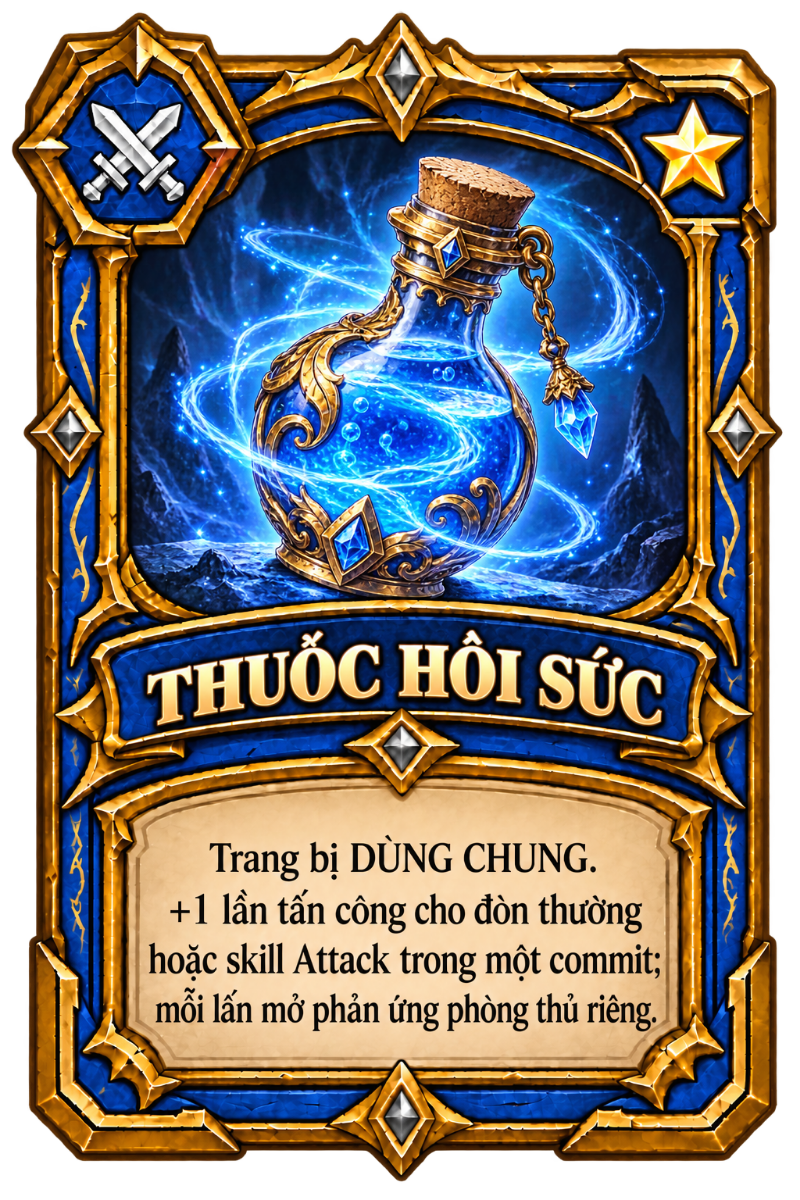
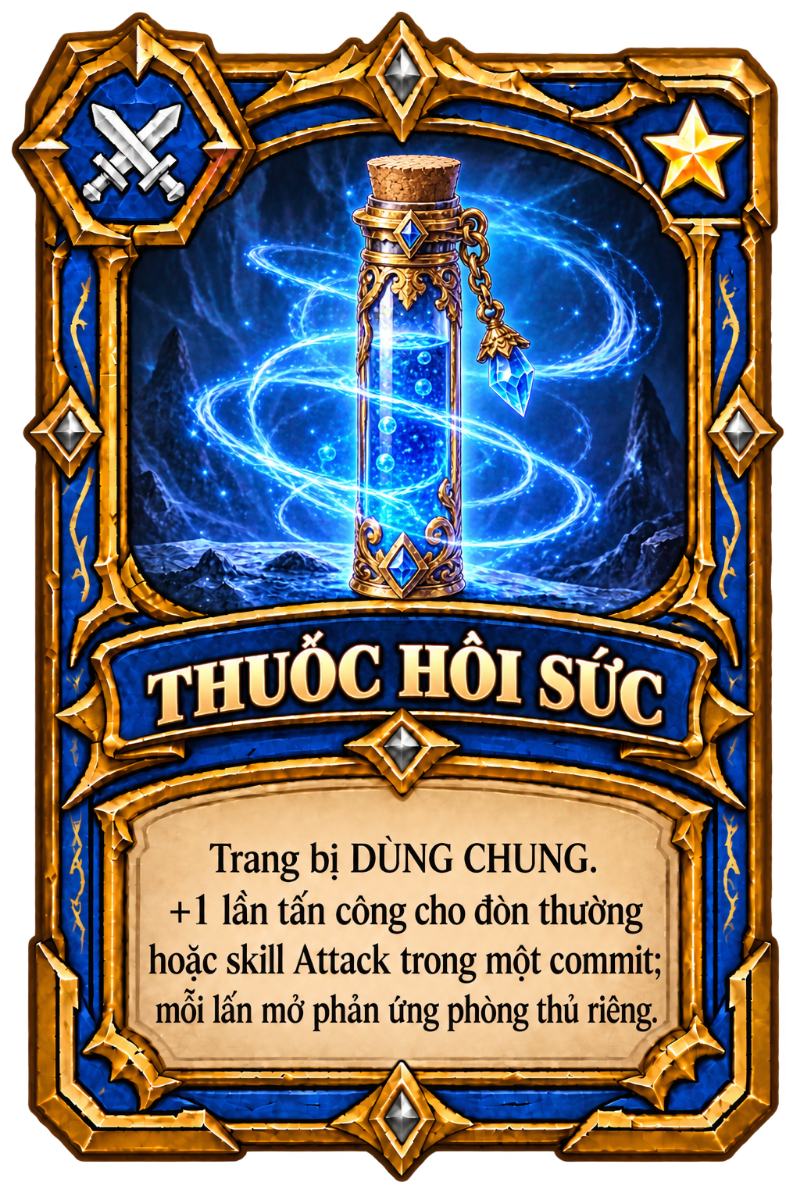
fix(assets): change Restorative Potion illustration to an upright cylindrical vial

diff --git a/assets/card-gallery/common/index.html b/assets/card-gallery/common/index.html
@@ -1,1 +1,1 @@
-<!doctype html><html lang="vi"><head><meta charset="utf-8"><meta name="viewport" content="width=device-width,initial-scale=1"><title>DozenWar — Trang bị dùng chung</title><style>body{margin:0;padding:24px;background:#111c32;color:#eef4ff;font:16px system-ui}main{max-width:1300px;margin:auto}.cards{display:grid;grid-template-columns:repeat(auto-fit,minmax(260px,1fr));gap:24px}article{background:#203452;padding:16px;border-radius:12px}.preview{display:block;margin-top:12px;background-color:#22344c;background-image:linear-gradient(45deg,#2c4059 25%,transparent 25%),linear-gradient(-45deg,#2c4059 25%,transparent 25%),linear-gradient(45deg,transparent 75%,#2c4059 75%),linear-gradient(-45deg,transparent 75%,#2c4059 75%);background-size:24px 24px;background-position:0 0,0 12px,12px -12px,-12px 0}img{width:100%;height:auto;display:block}a{color:#ffd583}h2{font-size:20px}details{margin-top:12px}summary{cursor:pointer}@media(max-width:420px){body{padding:12px}}</style></head><body><main><h1>Trang bị dùng chung — tông xanh dương</h1><p>11 mẫu · 23 lá trong deck. PNG 800 × 1200, nền trong suốt ngoài khung. Dữ liệu theo catalog DozenWar trên GitHub.</p><p><a href="catalog.json" download>Tải catalog JSON</a> · <a href="../../../">Về game</a></p><div class="cards"><article data-equipment-id="EQUIP_COMMON_ATK_003"><h2>Lọ Phép Thuật</h2><p>Công · 1 sao · 1 lá trong deck</p><a href="EQUIP_COMMON_ATK_003.png" download>Tải PNG 800 × 1200</a><a class="preview" href="EQUIP_COMMON_ATK_003.png"><img loading="lazy" src="EQUIP_COMMON_ATK_003.png" alt="Lọ Phép Thuật" width="800" height="1200"></a><details><summary>Hiệu ứng trong catalog</summary><p>Đòn thường và skill Attack trong một commit không được Guard Bộ binh; vẫn có phản ứng phòng thủ khác hợp lệ.</p></details></article><article data-equipment-id="EQUIP_COMMON_ATK_004"><h2>Thuốc Hồi Sức</h2><p>Công · 1 sao · 2 lá trong deck</p><a href="EQUIP_COMMON_ATK_004.png" download>Tải PNG 800 × 1200</a><a class="preview" href="EQUIP_COMMON_ATK_004.png"><img loading="lazy" src="EQUIP_COMMON_ATK_004.png" alt="Thuốc Hồi Sức" width="800" height="1200"></a><details><summary>Hiệu ứng trong catalog</summary><p>+1 lần tấn công cho đòn thường hoặc skill Attack trong một commit; mỗi lần mở phản ứng phòng thủ riêng.</p></details></article><article data-equipment-id="EQUIP_COMMON_DEF_001"><h2>Quyền Trượng Phép Thuật</h2><p>Thủ · 3 sao · 2 lá trong deck</p><a href="EQUIP_COMMON_DEF_001.png" download>Tải PNG 800 × 1200</a><a class="preview" href="EQUIP_COMMON_DEF_001.png"><img loading="lazy" src="EQUIP_COMMON_DEF_001.png" alt="Quyền Trượng Phép Thuật" width="800" height="1200"></a><details><summary>Hiệu ứng trong catalog</summary><p>Hủy một đòn tấn công, gồm sát thương và hiệu ứng lên đơn vị được bảo vệ; vẫn so sánh sao.</p></details></article><article data-equipment-id="EQUIP_COMMON_ATK_001"><h2>Triệu Gọi Ám Kỵ</h2><p>Công · 1 sao · 2 lá trong deck</p><a href="EQUIP_COMMON_ATK_001.png" download>Tải PNG 800 × 1200</a><a class="preview" href="EQUIP_COMMON_ATK_001.png"><img loading="lazy" src="EQUIP_COMMON_ATK_001.png" alt="Triệu Gọi Ám Kỵ" width="800" height="1200"></a><details><summary>Hiệu ứng trong catalog</summary><p>Tạo 1 lính Kỵ binh mới ở hex hợp lệ cạnh Hero còn sống. Lính được đi và đánh ngay; không mất HP, không commit Hero.</p></details></article><article data-equipment-id="EQUIP_COMMON_ATK_002"><h2>Kèn Gọi Quân</h2><p>Công · 1 sao · 2 lá trong deck</p><a href="EQUIP_COMMON_ATK_002.png" download>Tải PNG 800 × 1200</a><a class="preview" href="EQUIP_COMMON_ATK_002.png"><img loading="lazy" src="EQUIP_COMMON_ATK_002.png" alt="Kèn Gọi Quân" width="800" height="1200"></a><details><summary>Hiệu ứng trong catalog</summary><p>Tạo 1 lính Cung thủ mới ở hex hợp lệ cạnh Hero còn sống. Lính được đi và đánh ngay; không cần lính chết.</p></details></article><article data-equipment-id="EQUIP_COMMON_BOTH_001"><h2>Bình Máu</h2><p>Công và thủ · 4 sao · 4 lá trong deck</p><a href="EQUIP_COMMON_BOTH_001.png?v=original-stars-restored" download>Tải PNG 800 × 1200</a><a class="preview" href="EQUIP_COMMON_BOTH_001.png?v=original-stars-restored"><img loading="lazy" src="EQUIP_COMMON_BOTH_001.png?v=original-stars-restored" alt="Bình Máu" width="800" height="1200"></a><details><summary>Hiệu ứng trong catalog</summary><p>Hồi 1 HP cho Bộ binh hoặc Hero đồng đội còn sống, thiếu HP ở bất kỳ đâu. Khi đang nhận đòn phải hồi đủ để sống.</p></details></article><article data-equipment-id="EQUIP_COMMON_ATK_005"><h2>Thuốc Tăng Lực</h2><p>Công · 1 sao · 2 lá trong deck</p><a href="EQUIP_COMMON_ATK_005.png" download>Tải PNG 800 × 1200</a><a class="preview" href="EQUIP_COMMON_ATK_005.png"><img loading="lazy" src="EQUIP_COMMON_ATK_005.png" alt="Thuốc Tăng Lực" width="800" height="1200"></a><details><summary>Hiệu ứng trong catalog</summary><p>Cho 1 đồng đội chưa Attack thêm số ô bằng di chuyển cơ bản, kể cả đã di chuyển. Hết lượt công thì hết buff.</p></details></article><article data-equipment-id="EQUIP_COMMON_BOTH_002"><h2>Dây Chuyền May Mắn</h2><p>Công và thủ · 5 sao · 2 lá trong deck</p><a href="EQUIP_COMMON_BOTH_002.png" download>Tải PNG 800 × 1200</a><a class="preview" href="EQUIP_COMMON_BOTH_002.png"><img loading="lazy" src="EQUIP_COMMON_BOTH_002.png" alt="Dây Chuyền May Mắn" width="800" height="1200"></a><details><summary>Hiệu ứng trong catalog</summary><p>Hủy toàn bộ hiệu ứng của 1 card địch vừa dùng trước khi xử lý. Card bị hủy vẫn rời tay và tiêu hao ngân sách.</p></details></article><article data-equipment-id="EQUIP_COMMON_BOTH_003"><h2>Đánh Cắp</h2><p>Công và thủ · 4 sao · 2 lá trong deck</p><a href="EQUIP_COMMON_BOTH_003.png" download>Tải PNG 800 × 1200</a><a class="preview" href="EQUIP_COMMON_BOTH_003.png"><img loading="lazy" src="EQUIP_COMMON_BOTH_003.png" alt="Đánh Cắp" width="800" height="1200"></a><details><summary>Hiệu ứng trong catalog</summary><p>Xem tay địch và chọn lấy 1 card chưa dùng. Được dùng ngay nếu còn ngân sách.</p></details></article><article data-equipment-id="EQUIP_COMMON_BOTH_004"><h2>Nhẫn Dịch Chuyển</h2><p>Công và thủ · 3 sao · 2 lá trong deck</p><a href="EQUIP_COMMON_BOTH_004.png" download>Tải PNG 800 × 1200</a><a class="preview" href="EQUIP_COMMON_BOTH_004.png"><img loading="lazy" src="EQUIP_COMMON_BOTH_004.png" alt="Nhẫn Dịch Chuyển" width="800" height="1200"></a><details><summary>Hiệu ứng trong catalog</summary><p>Chỉ Hero đồng đội còn sống; lượt công phải chưa Attack. Dịch chuyển đến hex hợp lệ khác trong tối đa 4 ô, bỏ qua quân/vật cản và không tiêu hao di chuyển thường. Lượt thủ: chỉ khi Hero đang bị đánh, đủ 3 sao để hủy sát thương và hiệu ứng đòn.</p></details></article><article data-equipment-id="EQUIP_COMMON_ATK_006"><h2>Thích Khách</h2><p>Công · 4 sao · 2 lá trong deck</p><a href="EQUIP_COMMON_ATK_006.png" download>Tải PNG 800 × 1200</a><a class="preview" href="EQUIP_COMMON_ATK_006.png"><img loading="lazy" src="EQUIP_COMMON_ATK_006.png" alt="Thích Khách" width="800" height="1200"></a><details><summary>Hiệu ứng trong catalog</summary><p>Gây 1 sát thương cho 1 Hero địch trên toàn bản đồ. Bộ binh có thể đỡ đòn. Không tiêu hao quyền Attack.</p></details></article></div></main></body></html>
+<!doctype html><html lang="vi"><head><meta charset="utf-8"><meta name="viewport" content="width=device-width,initial-scale=1"><title>DozenWar — Trang bị dùng chung</title><style>body{margin:0;padding:24px;background:#111c32;color:#eef4ff;font:16px system-ui}main{max-width:1300px;margin:auto}.cards{display:grid;grid-template-columns:repeat(auto-fit,minmax(260px,1fr));gap:24px}article{background:#203452;padding:16px;border-radius:12px}.preview{display:block;margin-top:12px;background-color:#22344c;background-image:linear-gradient(45deg,#2c4059 25%,transparent 25%),linear-gradient(-45deg,#2c4059 25%,transparent 25%),linear-gradient(45deg,transparent 75%,#2c4059 75%),linear-gradient(-45deg,transparent 75%,#2c4059 75%);background-size:24px 24px;background-position:0 0,0 12px,12px -12px,-12px 0}img{width:100%;height:auto;display:block}a{color:#ffd583}h2{font-size:20px}details{margin-top:12px}summary{cursor:pointer}@media(max-width:420px){body{padding:12px}}</style></head><body><main><h1>Trang bị dùng chung — tông xanh dương</h1><p>11 mẫu · 23 lá trong deck. PNG 800 × 1200, nền trong suốt ngoài khung. Dữ liệu theo catalog DozenWar trên GitHub.</p><p><a href="catalog.json" download>Tải catalog JSON</a> · <a href="../../../">Về game</a></p><div class="cards"><article data-equipment-id="EQUIP_COMMON_ATK_003"><h2>Lọ Phép Thuật</h2><p>Công · 1 sao · 1 lá trong deck</p><a href="EQUIP_COMMON_ATK_003.png" download>Tải PNG 800 × 1200</a><a class="preview" href="EQUIP_COMMON_ATK_003.png"><img loading="lazy" src="EQUIP_COMMON_ATK_003.png" alt="Lọ Phép Thuật" width="800" height="1200"></a><details><summary>Hiệu ứng trong catalog</summary><p>Đòn thường và skill Attack trong một commit không được Guard Bộ binh; vẫn có phản ứng phòng thủ khác hợp lệ.</p></details></article><article data-equipment-id="EQUIP_COMMON_ATK_004"><h2>Thuốc Hồi Sức</h2><p>Công · 1 sao · 2 lá trong deck</p><a href="EQUIP_COMMON_ATK_004.png?v=vertical-cylinder-1" download>Tải PNG 800 × 1200</a><a class="preview" href="EQUIP_COMMON_ATK_004.png?v=vertical-cylinder-1"><img loading="lazy" src="EQUIP_COMMON_ATK_004.png?v=vertical-cylinder-1" alt="Thuốc Hồi Sức" width="800" height="1200"></a><details><summary>Hiệu ứng trong catalog</summary><p>+1 lần tấn công cho đòn thường hoặc skill Attack trong một commit; mỗi lần mở phản ứng phòng thủ riêng.</p></details></article><article data-equipment-id="EQUIP_COMMON_DEF_001"><h2>Quyền Trượng Phép Thuật</h2><p>Thủ · 3 sao · 2 lá trong deck</p><a href="EQUIP_COMMON_DEF_001.png" download>Tải PNG 800 × 1200</a><a class="preview" href="EQUIP_COMMON_DEF_001.png"><img loading="lazy" src="EQUIP_COMMON_DEF_001.png" alt="Quyền Trượng Phép Thuật" width="800" height="1200"></a><details><summary>Hiệu ứng trong catalog</summary><p>Hủy một đòn tấn công, gồm sát thương và hiệu ứng lên đơn vị được bảo vệ; vẫn so sánh sao.</p></details></article><article data-equipment-id="EQUIP_COMMON_ATK_001"><h2>Triệu Gọi Ám Kỵ</h2><p>Công · 1 sao · 2 lá trong deck</p><a href="EQUIP_COMMON_ATK_001.png" download>Tải PNG 800 × 1200</a><a class="preview" href="EQUIP_COMMON_ATK_001.png"><img loading="lazy" src="EQUIP_COMMON_ATK_001.png" alt="Triệu Gọi Ám Kỵ" width="800" height="1200"></a><details><summary>Hiệu ứng trong catalog</summary><p>Tạo 1 lính Kỵ binh mới ở hex hợp lệ cạnh Hero còn sống. Lính được đi và đánh ngay; không mất HP, không commit Hero.</p></details></article><article data-equipment-id="EQUIP_COMMON_ATK_002"><h2>Kèn Gọi Quân</h2><p>Công · 1 sao · 2 lá trong deck</p><a href="EQUIP_COMMON_ATK_002.png" download>Tải PNG 800 × 1200</a><a class="preview" href="EQUIP_COMMON_ATK_002.png"><img loading="lazy" src="EQUIP_COMMON_ATK_002.png" alt="Kèn Gọi Quân" width="800" height="1200"></a><details><summary>Hiệu ứng trong catalog</summary><p>Tạo 1 lính Cung thủ mới ở hex hợp lệ cạnh Hero còn sống. Lính được đi và đánh ngay; không cần lính chết.</p></details></article><article data-equipment-id="EQUIP_COMMON_BOTH_001"><h2>Bình Máu</h2><p>Công và thủ · 4 sao · 4 lá trong deck</p><a href="EQUIP_COMMON_BOTH_001.png?v=original-stars-restored" download>Tải PNG 800 × 1200</a><a class="preview" href="EQUIP_COMMON_BOTH_001.png?v=original-stars-restored"><img loading="lazy" src="EQUIP_COMMON_BOTH_001.png?v=original-stars-restored" alt="Bình Máu" width="800" height="1200"></a><details><summary>Hiệu ứng trong catalog</summary><p>Hồi 1 HP cho Bộ binh hoặc Hero đồng đội còn sống, thiếu HP ở bất kỳ đâu. Khi đang nhận đòn phải hồi đủ để sống.</p></details></article><article data-equipment-id="EQUIP_COMMON_ATK_005"><h2>Thuốc Tăng Lực</h2><p>Công · 1 sao · 2 lá trong deck</p><a href="EQUIP_COMMON_ATK_005.png" download>Tải PNG 800 × 1200</a><a class="preview" href="EQUIP_COMMON_ATK_005.png"><img loading="lazy" src="EQUIP_COMMON_ATK_005.png" alt="Thuốc Tăng Lực" width="800" height="1200"></a><details><summary>Hiệu ứng trong catalog</summary><p>Cho 1 đồng đội chưa Attack thêm số ô bằng di chuyển cơ bản, kể cả đã di chuyển. Hết lượt công thì hết buff.</p></details></article><article data-equipment-id="EQUIP_COMMON_BOTH_002"><h2>Dây Chuyền May Mắn</h2><p>Công và thủ · 5 sao · 2 lá trong deck</p><a href="EQUIP_COMMON_BOTH_002.png" download>Tải PNG 800 × 1200</a><a class="preview" href="EQUIP_COMMON_BOTH_002.png"><img loading="lazy" src="EQUIP_COMMON_BOTH_002.png" alt="Dây Chuyền May Mắn" width="800" height="1200"></a><details><summary>Hiệu ứng trong catalog</summary><p>Hủy toàn bộ hiệu ứng của 1 card địch vừa dùng trước khi xử lý. Card bị hủy vẫn rời tay và tiêu hao ngân sách.</p></details></article><article data-equipment-id="EQUIP_COMMON_BOTH_003"><h2>Đánh Cắp</h2><p>Công và thủ · 4 sao · 2 lá trong deck</p><a href="EQUIP_COMMON_BOTH_003.png" download>Tải PNG 800 × 1200</a><a class="preview" href="EQUIP_COMMON_BOTH_003.png"><img loading="lazy" src="EQUIP_COMMON_BOTH_003.png" alt="Đánh Cắp" width="800" height="1200"></a><details><summary>Hiệu ứng trong catalog</summary><p>Xem tay địch và chọn lấy 1 card chưa dùng. Được dùng ngay nếu còn ngân sách.</p></details></article><article data-equipment-id="EQUIP_COMMON_BOTH_004"><h2>Nhẫn Dịch Chuyển</h2><p>Công và thủ · 3 sao · 2 lá trong deck</p><a href="EQUIP_COMMON_BOTH_004.png" download>Tải PNG 800 × 1200</a><a class="preview" href="EQUIP_COMMON_BOTH_004.png"><img loading="lazy" src="EQUIP_COMMON_BOTH_004.png" alt="Nhẫn Dịch Chuyển" width="800" height="1200"></a><details><summary>Hiệu ứng trong catalog</summary><p>Chỉ Hero đồng đội còn sống; lượt công phải chưa Attack. Dịch chuyển đến hex hợp lệ khác trong tối đa 4 ô, bỏ qua quân/vật cản và không tiêu hao di chuyển thường. Lượt thủ: chỉ khi Hero đang bị đánh, đủ 3 sao để hủy sát thương và hiệu ứng đòn.</p></details></article><article data-equipment-id="EQUIP_COMMON_ATK_006"><h2>Thích Khách</h2><p>Công · 4 sao · 2 lá trong deck</p><a href="EQUIP_COMMON_ATK_006.png" download>Tải PNG 800 × 1200</a><a class="preview" href="EQUIP_COMMON_ATK_006.png"><img loading="lazy" src="EQUIP_COMMON_ATK_006.png" alt="Thích Khách" width="800" height="1200"></a><details><summary>Hiệu ứng trong catalog</summary><p>Gây 1 sát thương cho 1 Hero địch trên toàn bản đồ. Bộ binh có thể đỡ đòn. Không tiêu hao quyền Attack.</p></details></article></div></main></body></html>

diff --git a/dist/assets/card-gallery/common/index.html b/dist/assets/card-gallery/common/index.html
@@ -1,1 +1,1 @@
-<!doctype html><html lang="vi"><head><meta charset="utf-8"><meta name="viewport" content="width=device-width,initial-scale=1"><title>DozenWar — Trang bị dùng chung</title><style>body{margin:0;padding:24px;background:#111c32;color:#eef4ff;font:16px system-ui}main{max-width:1300px;margin:auto}.cards{display:grid;grid-template-columns:repeat(auto-fit,minmax(260px,1fr));gap:24px}article{background:#203452;padding:16px;border-radius:12px}.preview{display:block;margin-top:12px;background-color:#22344c;background-image:linear-gradient(45deg,#2c4059 25%,transparent 25%),linear-gradient(-45deg,#2c4059 25%,transparent 25%),linear-gradient(45deg,transparent 75%,#2c4059 75%),linear-gradient(-45deg,transparent 75%,#2c4059 75%);background-size:24px 24px;background-position:0 0,0 12px,12px -12px,-12px 0}img{width:100%;height:auto;display:block}a{color:#ffd583}h2{font-size:20px}details{margin-top:12px}summary{cursor:pointer}@media(max-width:420px){body{padding:12px}}</style></head><body><main><h1>Trang bị dùng chung — tông xanh dương</h1><p>11 mẫu · 23 lá trong deck. PNG 800 × 1200, nền trong suốt ngoài khung. Dữ liệu theo catalog DozenWar trên GitHub.</p><p><a href="catalog.json" download>Tải catalog JSON</a> · <a href="../../../">Về game</a></p><div class="cards"><article data-equipment-id="EQUIP_COMMON_ATK_003"><h2>Lọ Phép Thuật</h2><p>Công · 1 sao · 1 lá trong deck</p><a href="EQUIP_COMMON_ATK_003.png" download>Tải PNG 800 × 1200</a><a class="preview" href="EQUIP_COMMON_ATK_003.png"><img loading="lazy" src="EQUIP_COMMON_ATK_003.png" alt="Lọ Phép Thuật" width="800" height="1200"></a><details><summary>Hiệu ứng trong catalog</summary><p>Đòn thường và skill Attack trong một commit không được Guard Bộ binh; vẫn có phản ứng phòng thủ khác hợp lệ.</p></details></article><article data-equipment-id="EQUIP_COMMON_ATK_004"><h2>Thuốc Hồi Sức</h2><p>Công · 1 sao · 2 lá trong deck</p><a href="EQUIP_COMMON_ATK_004.png" download>Tải PNG 800 × 1200</a><a class="preview" href="EQUIP_COMMON_ATK_004.png"><img loading="lazy" src="EQUIP_COMMON_ATK_004.png" alt="Thuốc Hồi Sức" width="800" height="1200"></a><details><summary>Hiệu ứng trong catalog</summary><p>+1 lần tấn công cho đòn thường hoặc skill Attack trong một commit; mỗi lần mở phản ứng phòng thủ riêng.</p></details></article><article data-equipment-id="EQUIP_COMMON_DEF_001"><h2>Quyền Trượng Phép Thuật</h2><p>Thủ · 3 sao · 2 lá trong deck</p><a href="EQUIP_COMMON_DEF_001.png" download>Tải PNG 800 × 1200</a><a class="preview" href="EQUIP_COMMON_DEF_001.png"><img loading="lazy" src="EQUIP_COMMON_DEF_001.png" alt="Quyền Trượng Phép Thuật" width="800" height="1200"></a><details><summary>Hiệu ứng trong catalog</summary><p>Hủy một đòn tấn công, gồm sát thương và hiệu ứng lên đơn vị được bảo vệ; vẫn so sánh sao.</p></details></article><article data-equipment-id="EQUIP_COMMON_ATK_001"><h2>Triệu Gọi Ám Kỵ</h2><p>Công · 1 sao · 2 lá trong deck</p><a href="EQUIP_COMMON_ATK_001.png" download>Tải PNG 800 × 1200</a><a class="preview" href="EQUIP_COMMON_ATK_001.png"><img loading="lazy" src="EQUIP_COMMON_ATK_001.png" alt="Triệu Gọi Ám Kỵ" width="800" height="1200"></a><details><summary>Hiệu ứng trong catalog</summary><p>Tạo 1 lính Kỵ binh mới ở hex hợp lệ cạnh Hero còn sống. Lính được đi và đánh ngay; không mất HP, không commit Hero.</p></details></article><article data-equipment-id="EQUIP_COMMON_ATK_002"><h2>Kèn Gọi Quân</h2><p>Công · 1 sao · 2 lá trong deck</p><a href="EQUIP_COMMON_ATK_002.png" download>Tải PNG 800 × 1200</a><a class="preview" href="EQUIP_COMMON_ATK_002.png"><img loading="lazy" src="EQUIP_COMMON_ATK_002.png" alt="Kèn Gọi Quân" width="800" height="1200"></a><details><summary>Hiệu ứng trong catalog</summary><p>Tạo 1 lính Cung thủ mới ở hex hợp lệ cạnh Hero còn sống. Lính được đi và đánh ngay; không cần lính chết.</p></details></article><article data-equipment-id="EQUIP_COMMON_BOTH_001"><h2>Bình Máu</h2><p>Công và thủ · 4 sao · 4 lá trong deck</p><a href="EQUIP_COMMON_BOTH_001.png?v=original-stars-restored" download>Tải PNG 800 × 1200</a><a class="preview" href="EQUIP_COMMON_BOTH_001.png?v=original-stars-restored"><img loading="lazy" src="EQUIP_COMMON_BOTH_001.png?v=original-stars-restored" alt="Bình Máu" width="800" height="1200"></a><details><summary>Hiệu ứng trong catalog</summary><p>Hồi 1 HP cho Bộ binh hoặc Hero đồng đội còn sống, thiếu HP ở bất kỳ đâu. Khi đang nhận đòn phải hồi đủ để sống.</p></details></article><article data-equipment-id="EQUIP_COMMON_ATK_005"><h2>Thuốc Tăng Lực</h2><p>Công · 1 sao · 2 lá trong deck</p><a href="EQUIP_COMMON_ATK_005.png" download>Tải PNG 800 × 1200</a><a class="preview" href="EQUIP_COMMON_ATK_005.png"><img loading="lazy" src="EQUIP_COMMON_ATK_005.png" alt="Thuốc Tăng Lực" width="800" height="1200"></a><details><summary>Hiệu ứng trong catalog</summary><p>Cho 1 đồng đội chưa Attack thêm số ô bằng di chuyển cơ bản, kể cả đã di chuyển. Hết lượt công thì hết buff.</p></details></article><article data-equipment-id="EQUIP_COMMON_BOTH_002"><h2>Dây Chuyền May Mắn</h2><p>Công và thủ · 5 sao · 2 lá trong deck</p><a href="EQUIP_COMMON_BOTH_002.png" download>Tải PNG 800 × 1200</a><a class="preview" href="EQUIP_COMMON_BOTH_002.png"><img loading="lazy" src="EQUIP_COMMON_BOTH_002.png" alt="Dây Chuyền May Mắn" width="800" height="1200"></a><details><summary>Hiệu ứng trong catalog</summary><p>Hủy toàn bộ hiệu ứng của 1 card địch vừa dùng trước khi xử lý. Card bị hủy vẫn rời tay và tiêu hao ngân sách.</p></details></article><article data-equipment-id="EQUIP_COMMON_BOTH_003"><h2>Đánh Cắp</h2><p>Công và thủ · 4 sao · 2 lá trong deck</p><a href="EQUIP_COMMON_BOTH_003.png" download>Tải PNG 800 × 1200</a><a class="preview" href="EQUIP_COMMON_BOTH_003.png"><img loading="lazy" src="EQUIP_COMMON_BOTH_003.png" alt="Đánh Cắp" width="800" height="1200"></a><details><summary>Hiệu ứng trong catalog</summary><p>Xem tay địch và chọn lấy 1 card chưa dùng. Được dùng ngay nếu còn ngân sách.</p></details></article><article data-equipment-id="EQUIP_COMMON_BOTH_004"><h2>Nhẫn Dịch Chuyển</h2><p>Công và thủ · 3 sao · 2 lá trong deck</p><a href="EQUIP_COMMON_BOTH_004.png" download>Tải PNG 800 × 1200</a><a class="preview" href="EQUIP_COMMON_BOTH_004.png"><img loading="lazy" src="EQUIP_COMMON_BOTH_004.png" alt="Nhẫn Dịch Chuyển" width="800" height="1200"></a><details><summary>Hiệu ứng trong catalog</summary><p>Chỉ Hero đồng đội còn sống; lượt công phải chưa Attack. Dịch chuyển đến hex hợp lệ khác trong tối đa 4 ô, bỏ qua quân/vật cản và không tiêu hao di chuyển thường. Lượt thủ: chỉ khi Hero đang bị đánh, đủ 3 sao để hủy sát thương và hiệu ứng đòn.</p></details></article><article data-equipment-id="EQUIP_COMMON_ATK_006"><h2>Thích Khách</h2><p>Công · 4 sao · 2 lá trong deck</p><a href="EQUIP_COMMON_ATK_006.png" download>Tải PNG 800 × 1200</a><a class="preview" href="EQUIP_COMMON_ATK_006.png"><img loading="lazy" src="EQUIP_COMMON_ATK_006.png" alt="Thích Khách" width="800" height="1200"></a><details><summary>Hiệu ứng trong catalog</summary><p>Gây 1 sát thương cho 1 Hero địch trên toàn bản đồ. Bộ binh có thể đỡ đòn. Không tiêu hao quyền Attack.</p></details></article></div></main></body></html>
+<!doctype html><html lang="vi"><head><meta charset="utf-8"><meta name="viewport" content="width=device-width,initial-scale=1"><title>DozenWar — Trang bị dùng chung</title><style>body{margin:0;padding:24px;background:#111c32;color:#eef4ff;font:16px system-ui}main{max-width:1300px;margin:auto}.cards{display:grid;grid-template-columns:repeat(auto-fit,minmax(260px,1fr));gap:24px}article{background:#203452;padding:16px;border-radius:12px}.preview{display:block;margin-top:12px;background-color:#22344c;background-image:linear-gradient(45deg,#2c4059 25%,transparent 25%),linear-gradient(-45deg,#2c4059 25%,transparent 25%),linear-gradient(45deg,transparent 75%,#2c4059 75%),linear-gradient(-45deg,transparent 75%,#2c4059 75%);background-size:24px 24px;background-position:0 0,0 12px,12px -12px,-12px 0}img{width:100%;height:auto;display:block}a{color:#ffd583}h2{font-size:20px}details{margin-top:12px}summary{cursor:pointer}@media(max-width:420px){body{padding:12px}}</style></head><body><main><h1>Trang bị dùng chung — tông xanh dương</h1><p>11 mẫu · 23 lá trong deck. PNG 800 × 1200, nền trong suốt ngoài khung. Dữ liệu theo catalog DozenWar trên GitHub.</p><p><a href="catalog.json" download>Tải catalog JSON</a> · <a href="../../../">Về game</a></p><div class="cards"><article data-equipment-id="EQUIP_COMMON_ATK_003"><h2>Lọ Phép Thuật</h2><p>Công · 1 sao · 1 lá trong deck</p><a href="EQUIP_COMMON_ATK_003.png" download>Tải PNG 800 × 1200</a><a class="preview" href="EQUIP_COMMON_ATK_003.png"><img loading="lazy" src="EQUIP_COMMON_ATK_003.png" alt="Lọ Phép Thuật" width="800" height="1200"></a><details><summary>Hiệu ứng trong catalog</summary><p>Đòn thường và skill Attack trong một commit không được Guard Bộ binh; vẫn có phản ứng phòng thủ khác hợp lệ.</p></details></article><article data-equipment-id="EQUIP_COMMON_ATK_004"><h2>Thuốc Hồi Sức</h2><p>Công · 1 sao · 2 lá trong deck</p><a href="EQUIP_COMMON_ATK_004.png?v=vertical-cylinder-1" download>Tải PNG 800 × 1200</a><a class="preview" href="EQUIP_COMMON_ATK_004.png?v=vertical-cylinder-1"><img loading="lazy" src="EQUIP_COMMON_ATK_004.png?v=vertical-cylinder-1" alt="Thuốc Hồi Sức" width="800" height="1200"></a><details><summary>Hiệu ứng trong catalog</summary><p>+1 lần tấn công cho đòn thường hoặc skill Attack trong một commit; mỗi lần mở phản ứng phòng thủ riêng.</p></details></article><article data-equipment-id="EQUIP_COMMON_DEF_001"><h2>Quyền Trượng Phép Thuật</h2><p>Thủ · 3 sao · 2 lá trong deck</p><a href="EQUIP_COMMON_DEF_001.png" download>Tải PNG 800 × 1200</a><a class="preview" href="EQUIP_COMMON_DEF_001.png"><img loading="lazy" src="EQUIP_COMMON_DEF_001.png" alt="Quyền Trượng Phép Thuật" width="800" height="1200"></a><details><summary>Hiệu ứng trong catalog</summary><p>Hủy một đòn tấn công, gồm sát thương và hiệu ứng lên đơn vị được bảo vệ; vẫn so sánh sao.</p></details></article><article data-equipment-id="EQUIP_COMMON_ATK_001"><h2>Triệu Gọi Ám Kỵ</h2><p>Công · 1 sao · 2 lá trong deck</p><a href="EQUIP_COMMON_ATK_001.png" download>Tải PNG 800 × 1200</a><a class="preview" href="EQUIP_COMMON_ATK_001.png"><img loading="lazy" src="EQUIP_COMMON_ATK_001.png" alt="Triệu Gọi Ám Kỵ" width="800" height="1200"></a><details><summary>Hiệu ứng trong catalog</summary><p>Tạo 1 lính Kỵ binh mới ở hex hợp lệ cạnh Hero còn sống. Lính được đi và đánh ngay; không mất HP, không commit Hero.</p></details></article><article data-equipment-id="EQUIP_COMMON_ATK_002"><h2>Kèn Gọi Quân</h2><p>Công · 1 sao · 2 lá trong deck</p><a href="EQUIP_COMMON_ATK_002.png" download>Tải PNG 800 × 1200</a><a class="preview" href="EQUIP_COMMON_ATK_002.png"><img loading="lazy" src="EQUIP_COMMON_ATK_002.png" alt="Kèn Gọi Quân" width="800" height="1200"></a><details><summary>Hiệu ứng trong catalog</summary><p>Tạo 1 lính Cung thủ mới ở hex hợp lệ cạnh Hero còn sống. Lính được đi và đánh ngay; không cần lính chết.</p></details></article><article data-equipment-id="EQUIP_COMMON_BOTH_001"><h2>Bình Máu</h2><p>Công và thủ · 4 sao · 4 lá trong deck</p><a href="EQUIP_COMMON_BOTH_001.png?v=original-stars-restored" download>Tải PNG 800 × 1200</a><a class="preview" href="EQUIP_COMMON_BOTH_001.png?v=original-stars-restored"><img loading="lazy" src="EQUIP_COMMON_BOTH_001.png?v=original-stars-restored" alt="Bình Máu" width="800" height="1200"></a><details><summary>Hiệu ứng trong catalog</summary><p>Hồi 1 HP cho Bộ binh hoặc Hero đồng đội còn sống, thiếu HP ở bất kỳ đâu. Khi đang nhận đòn phải hồi đủ để sống.</p></details></article><article data-equipment-id="EQUIP_COMMON_ATK_005"><h2>Thuốc Tăng Lực</h2><p>Công · 1 sao · 2 lá trong deck</p><a href="EQUIP_COMMON_ATK_005.png" download>Tải PNG 800 × 1200</a><a class="preview" href="EQUIP_COMMON_ATK_005.png"><img loading="lazy" src="EQUIP_COMMON_ATK_005.png" alt="Thuốc Tăng Lực" width="800" height="1200"></a><details><summary>Hiệu ứng trong catalog</summary><p>Cho 1 đồng đội chưa Attack thêm số ô bằng di chuyển cơ bản, kể cả đã di chuyển. Hết lượt công thì hết buff.</p></details></article><article data-equipment-id="EQUIP_COMMON_BOTH_002"><h2>Dây Chuyền May Mắn</h2><p>Công và thủ · 5 sao · 2 lá trong deck</p><a href="EQUIP_COMMON_BOTH_002.png" download>Tải PNG 800 × 1200</a><a class="preview" href="EQUIP_COMMON_BOTH_002.png"><img loading="lazy" src="EQUIP_COMMON_BOTH_002.png" alt="Dây Chuyền May Mắn" width="800" height="1200"></a><details><summary>Hiệu ứng trong catalog</summary><p>Hủy toàn bộ hiệu ứng của 1 card địch vừa dùng trước khi xử lý. Card bị hủy vẫn rời tay và tiêu hao ngân sách.</p></details></article><article data-equipment-id="EQUIP_COMMON_BOTH_003"><h2>Đánh Cắp</h2><p>Công và thủ · 4 sao · 2 lá trong deck</p><a href="EQUIP_COMMON_BOTH_003.png" download>Tải PNG 800 × 1200</a><a class="preview" href="EQUIP_COMMON_BOTH_003.png"><img loading="lazy" src="EQUIP_COMMON_BOTH_003.png" alt="Đánh Cắp" width="800" height="1200"></a><details><summary>Hiệu ứng trong catalog</summary><p>Xem tay địch và chọn lấy 1 card chưa dùng. Được dùng ngay nếu còn ngân sách.</p></details></article><article data-equipment-id="EQUIP_COMMON_BOTH_004"><h2>Nhẫn Dịch Chuyển</h2><p>Công và thủ · 3 sao · 2 lá trong deck</p><a href="EQUIP_COMMON_BOTH_004.png" download>Tải PNG 800 × 1200</a><a class="preview" href="EQUIP_COMMON_BOTH_004.png"><img loading="lazy" src="EQUIP_COMMON_BOTH_004.png" alt="Nhẫn Dịch Chuyển" width="800" height="1200"></a><details><summary>Hiệu ứng trong catalog</summary><p>Chỉ Hero đồng đội còn sống; lượt công phải chưa Attack. Dịch chuyển đến hex hợp lệ khác trong tối đa 4 ô, bỏ qua quân/vật cản và không tiêu hao di chuyển thường. Lượt thủ: chỉ khi Hero đang bị đánh, đủ 3 sao để hủy sát thương và hiệu ứng đòn.</p></details></article><article data-equipment-id="EQUIP_COMMON_ATK_006"><h2>Thích Khách</h2><p>Công · 4 sao · 2 lá trong deck</p><a href="EQUIP_COMMON_ATK_006.png" download>Tải PNG 800 × 1200</a><a class="preview" href="EQUIP_COMMON_ATK_006.png"><img loading="lazy" src="EQUIP_COMMON_ATK_006.png" alt="Thích Khách" width="800" height="1200"></a><details><summary>Hiệu ứng trong catalog</summary><p>Gây 1 sát thương cho 1 Hero địch trên toàn bản đồ. Bộ binh có thể đỡ đòn. Không tiêu hao quyền Attack.</p></details></article></div></main></body></html>
